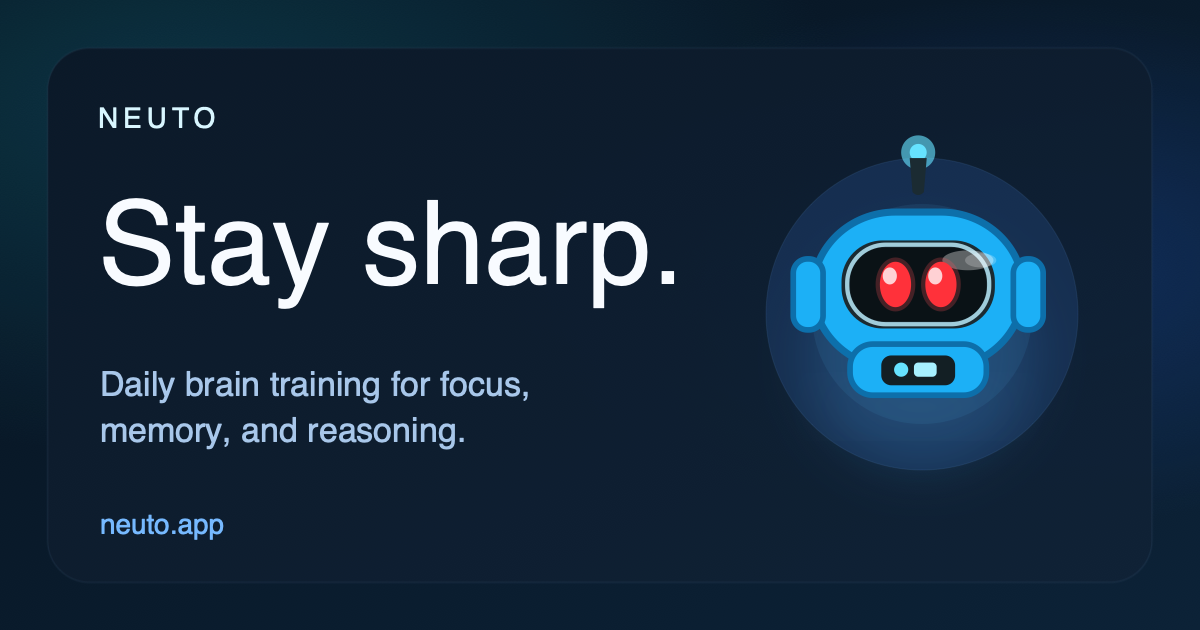
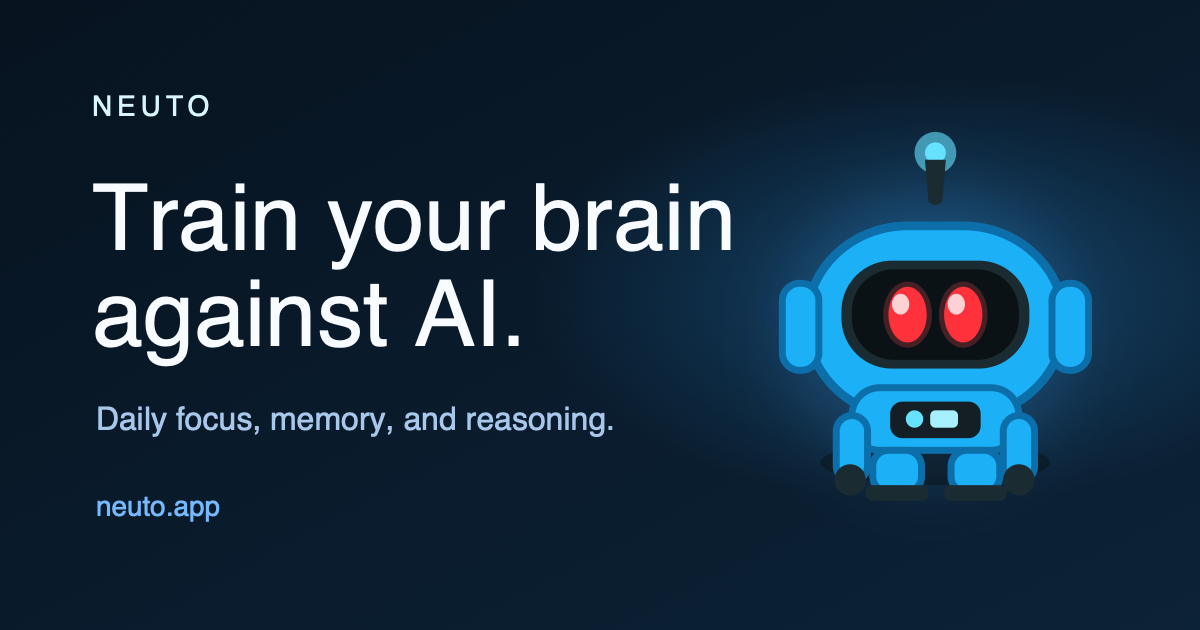
Publish simpler social card

diff --git a/index.html b/index.html
@@ -25,14 +25,14 @@
   />
   <meta property="og:url" content="https://neuto.app/" />
   <meta property="og:site_name" content="Neuto" />
-  <meta property="og:image" content="https://neuto.app/social-card.png?v=20260318b" />
+  <meta property="og:image" content="https://neuto.app/social-card.png?v=20260318d" />
   <meta name="twitter:card" content="summary_large_image" />
   <meta name="twitter:title" content="Neuto | Brain Training for Focus, Memory, and Cognitive Fitness" />
   <meta
     name="twitter:description"
     content="Train focus, memory, and reasoning with short daily sessions designed to keep you sharp in an AI-heavy world."
   />
-  <meta name="twitter:image" content="https://neuto.app/social-card.png?v=20260318b" />
+  <meta name="twitter:image" content="https://neuto.app/social-card.png?v=20260318d" />
   <meta
     http-equiv="Content-Security-Policy"
     content="default-src 'self'; base-uri 'self'; object-src 'none'; img-src 'self' data: https://www.google-analytics.com; style-src 'self' 'unsafe-inline' https://fonts.googleapis.com; font-src 'self' https://fonts.gstatic.com data:; script-src 'self' 'unsafe-inline' https://www.googletagmanager.com; connect-src 'self' https://neuto-app.fly.dev http://localhost:8000 https://www.google-analytics.com https://region1.google-analytics.com; form-action 'self';"

diff --git a/landing.html b/landing.html
@@ -23,14 +23,14 @@
   />
   <meta property="og:url" content="https://neuto.app/" />
   <meta property="og:site_name" content="Neuto" />
-  <meta property="og:image" content="https://neuto.app/social-card.png?v=20260318b" />
+  <meta property="og:image" content="https://neuto.app/social-card.png?v=20260318d" />
   <meta name="twitter:card" content="summary_large_image" />
   <meta name="twitter:title" content="Neuto | Brain Training for Focus, Memory, and Cognitive Fitness" />
   <meta
     name="twitter:description"
     content="Train focus, memory, and reasoning with short daily sessions designed to keep you sharp in an AI-heavy world."
   />
-  <meta name="twitter:image" content="https://neuto.app/social-card.png?v=20260318b" />
+  <meta name="twitter:image" content="https://neuto.app/social-card.png?v=20260318d" />
   <meta
     http-equiv="Content-Security-Policy"
     content="default-src 'self'; base-uri 'self'; object-src 'none'; img-src 'self' data: https://www.google-analytics.com; style-src 'self' 'unsafe-inline' https://fonts.googleapis.com; font-src 'self' https://fonts.gstatic.com data:; script-src 'self' 'unsafe-inline' https://www.googletagmanager.com; connect-src 'self' https://neuto-app.fly.dev http://localhost:8000 https://www.google-analytics.com https://region1.google-analytics.com; form-action 'self';"

diff --git a/terms-and-conditions.html b/terms-and-conditions.html
@@ -21,14 +21,14 @@
   />
   <meta property="og:url" content="https://neuto.app/terms-and-conditions.html" />
   <meta property="og:site_name" content="Neuto" />
-  <meta property="og:image" content="https://neuto.app/social-card.png?v=20260318b" />
+  <meta property="og:image" content="https://neuto.app/social-card.png?v=20260318d" />
   <meta name="twitter:card" content="summary_large_image" />
   <meta name="twitter:title" content="Neuto Terms and Conditions" />
   <meta
     name="twitter:description"
     content="Read the Neuto terms and conditions covering account use, subscriptions, waitlist access, acceptable use, and service limitations."
   />
-  <meta name="twitter:image" content="https://neuto.app/social-card.png?v=20260318b" />
+  <meta name="twitter:image" content="https://neuto.app/social-card.png?v=20260318d" />
   <script async src="https://www.googletagmanager.com/gtag/js?id=G-KR710KMWDF"></script>
   <script src="/analytics.js" defer></script>
   <title>Neuto Terms &amp; Conditions</title>

diff --git a/privacy-policy.html b/privacy-policy.html
@@ -21,14 +21,14 @@
   />
   <meta property="og:url" content="https://neuto.app/privacy-policy.html" />
   <meta property="og:site_name" content="Neuto" />
-  <meta property="og:image" content="https://neuto.app/social-card.png?v=20260318b" />
+  <meta property="og:image" content="https://neuto.app/social-card.png?v=20260318d" />
   <meta name="twitter:card" content="summary_large_image" />
   <meta name="twitter:title" content="Neuto Privacy Policy" />
   <meta
     name="twitter:description"
     content="Read the Neuto privacy policy for information about data collection, account details, waitlist emails, analytics, and your privacy rights."
   />
-  <meta name="twitter:image" content="https://neuto.app/social-card.png?v=20260318b" />
+  <meta name="twitter:image" content="https://neuto.app/social-card.png?v=20260318d" />
   <script async src="https://www.googletagmanager.com/gtag/js?id=G-KR710KMWDF"></script>
   <script src="/analytics.js" defer></script>
   <title>Neuto Privacy Policy</title>
